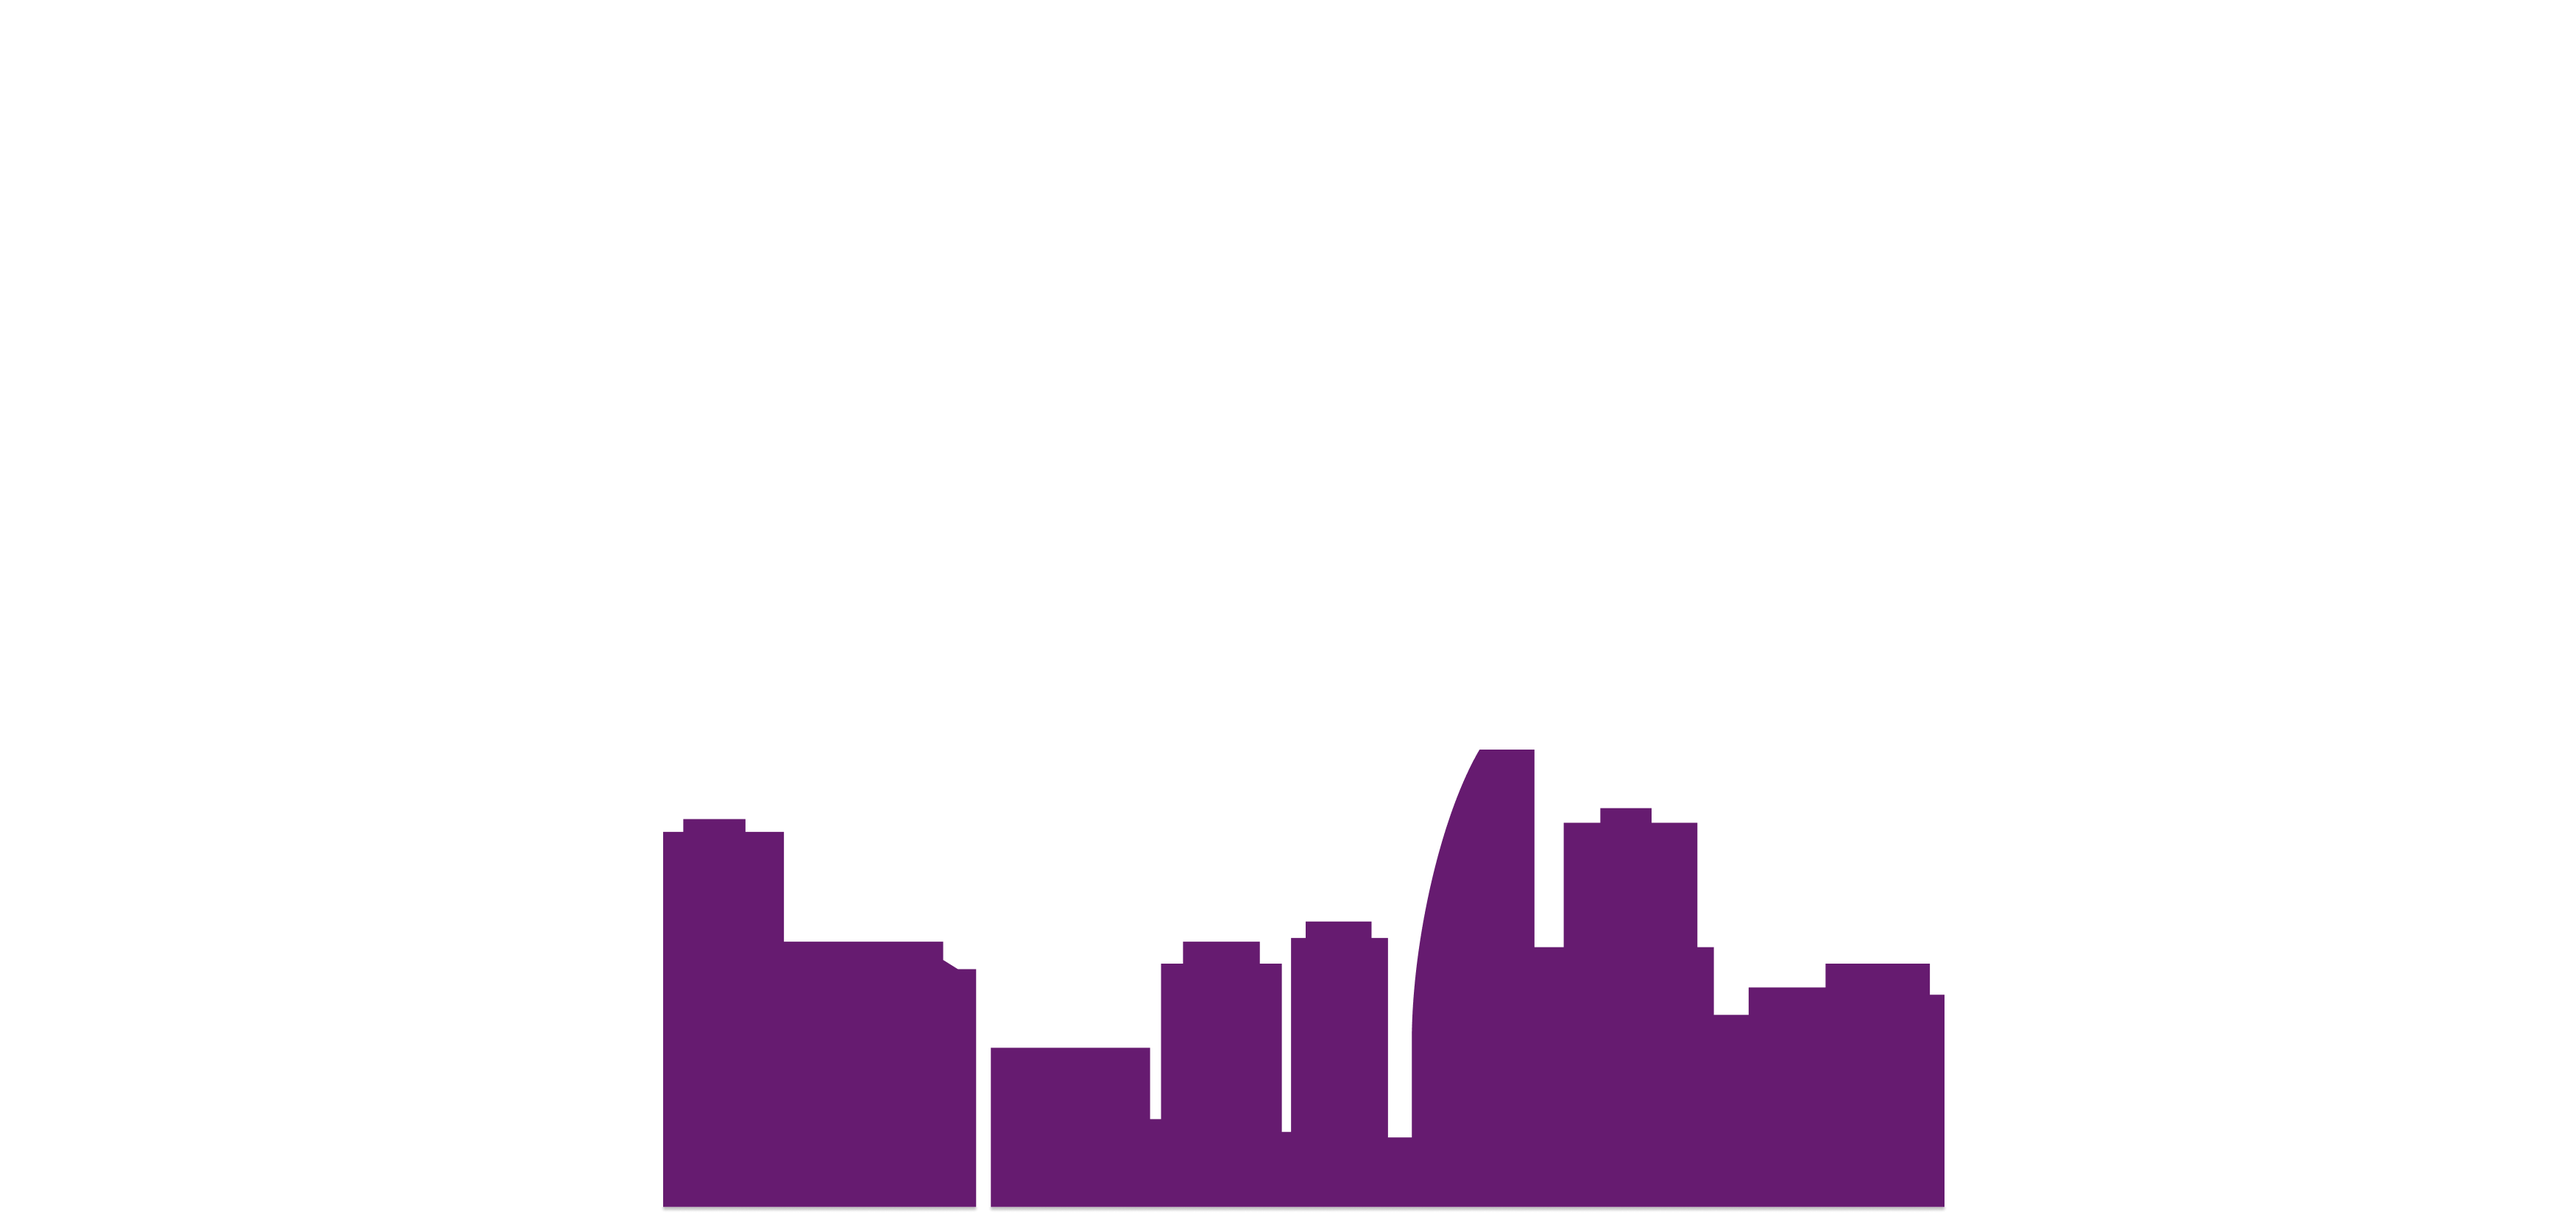
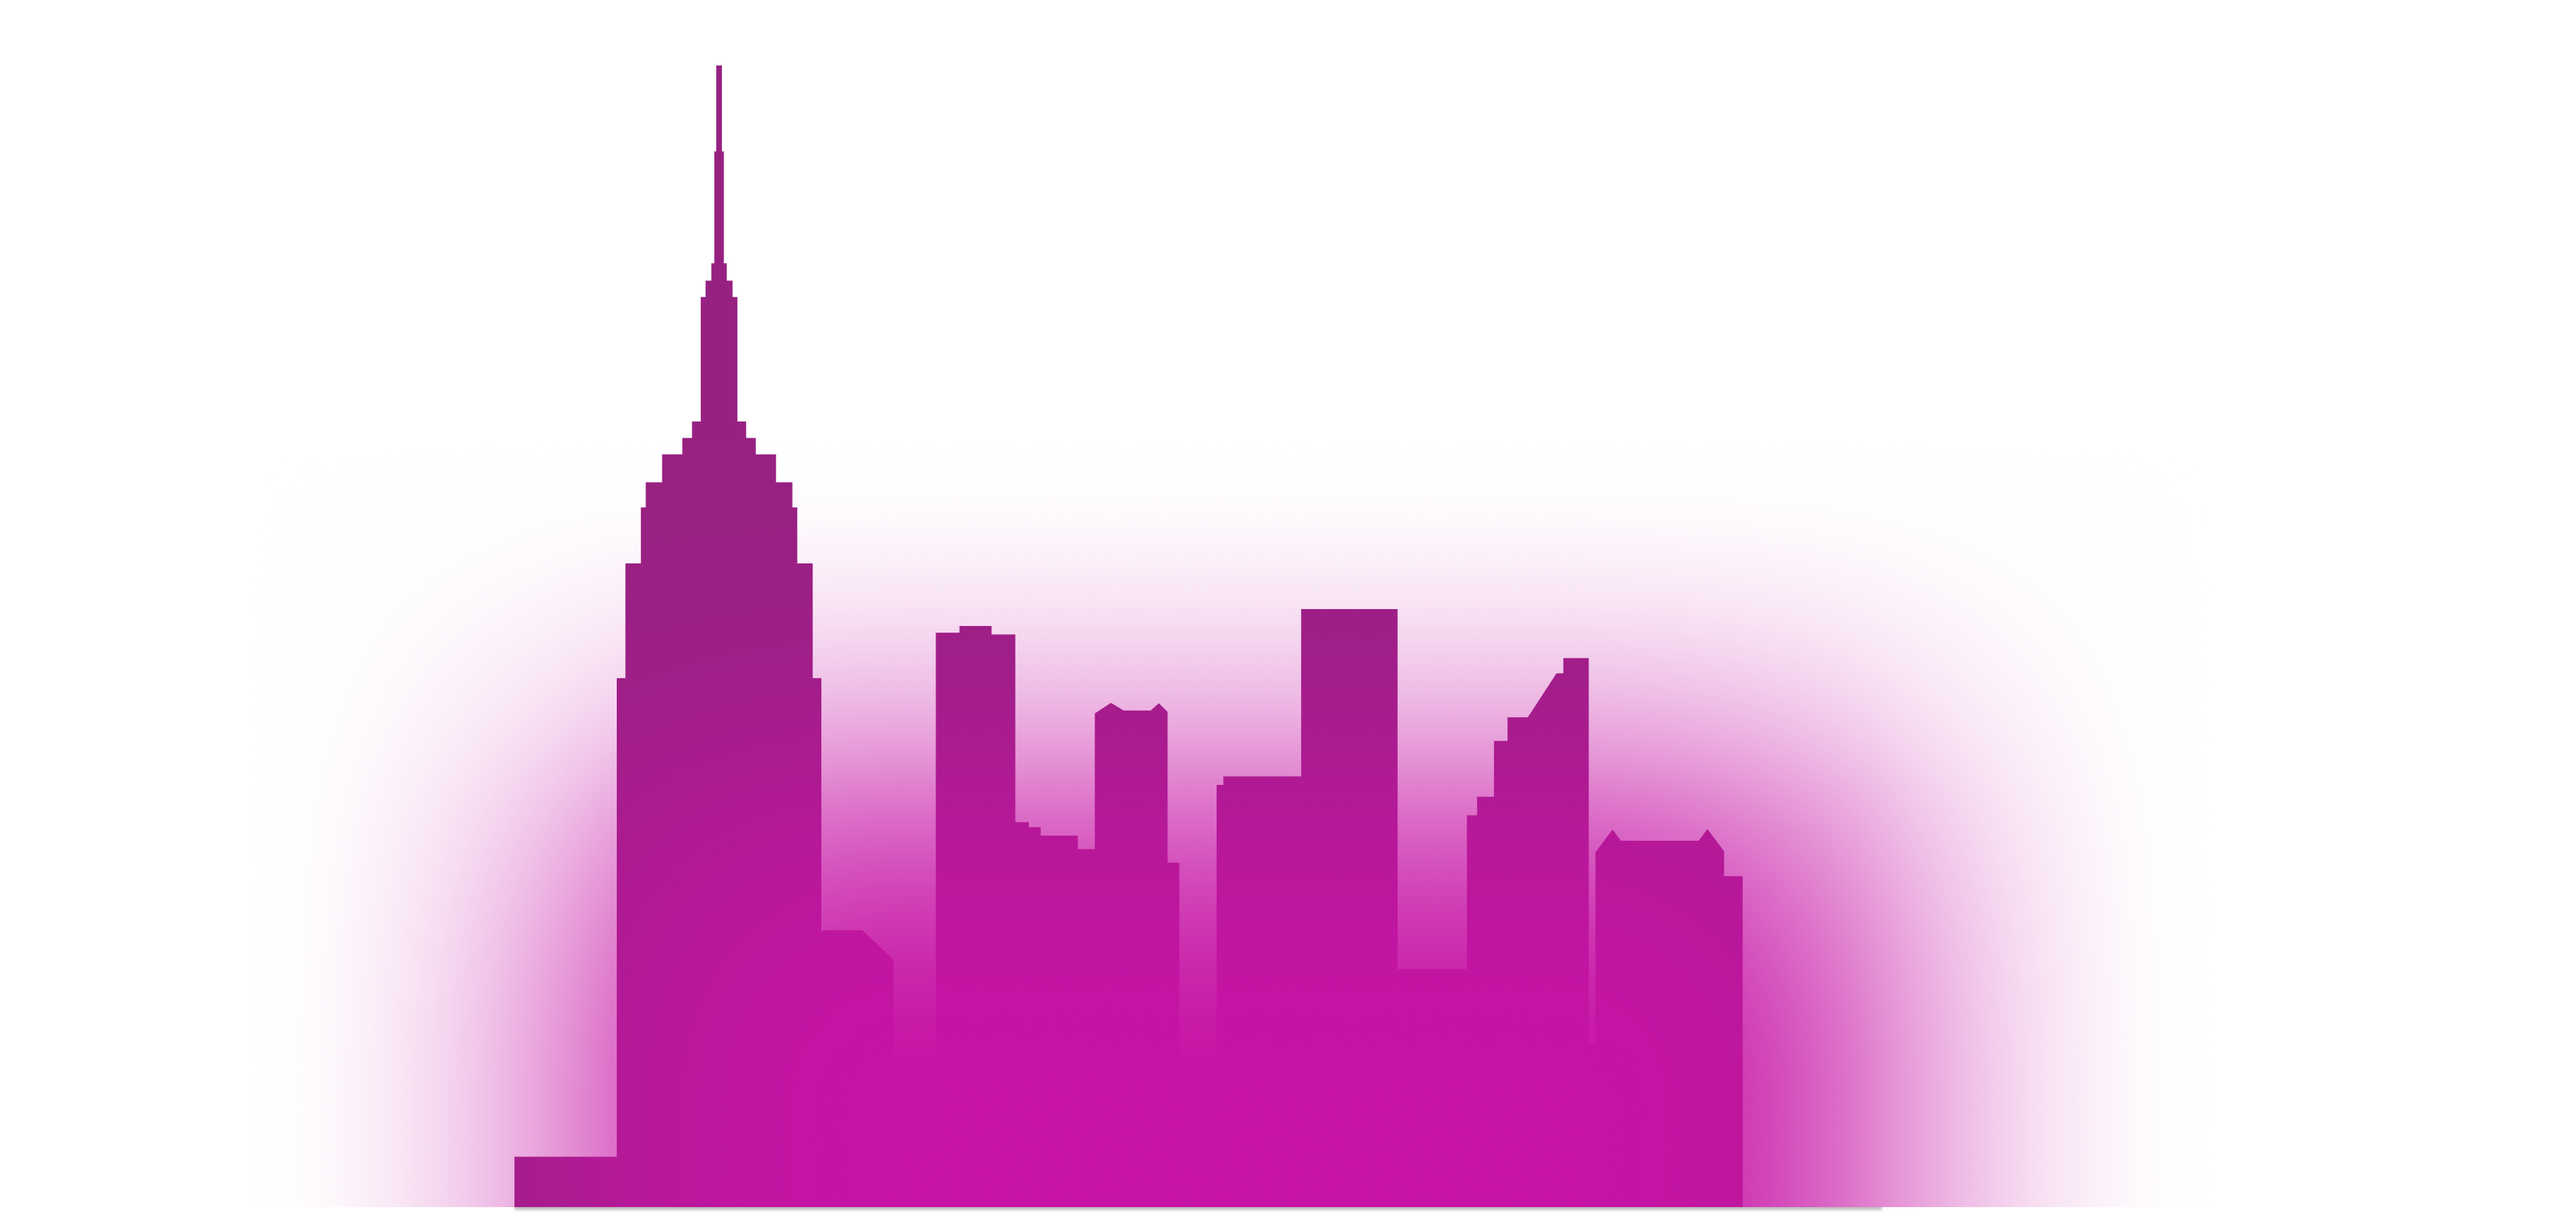
added parallax to repository

diff --git a/EZ-Parallax-master/banner.html b/EZ-Parallax-master/banner.html
@@ -6,7 +6,80 @@
 	<meta name="viewport" content="width=device-width, initial-scale=1">
 	<link rel="stylesheet" href="style.css" />
 	<link rel="stylesheet" href="parallax.css" />
-	<title>EZ | Banner</title>
+	<link href="https://fonts.googleapis.com/css2?family=Montserrat:wght@400;500;600&display=swap" rel="stylesheet">
+	<link href="https://cdn.jsdelivr.net/npm/bootstrap@5.3.3/dist/css/bootstrap.min.css" rel="stylesheet"
+		integrity="sha384-QWTKZyjpPEjISv5WaRU9OFeRpok6YctnYmDr5pNlyT2bRjXh0JMhjY6hW+ALEwIH" crossorigin="anonymous">
+	<title>New York</title>
+	<style>
+		body {
+			color: white;
+			font-family: "Montserrat", sans-serif;
+			margin: 0;
+			padding: 0;
+		}
+
+		/* Banner Section Styling */
+		.bnnrCntnt {
+			background: url(https://marriott.cdn.tambourine.com/destinations-promo/media/nyc_lp_q3c2_intro_bkgrnd_092124-66fee4f27d41f.jpg) no-repeat center center;
+			background-size: cover;
+			color: white;
+			padding: 100px 0;
+			max-width: 100%;
+			/* Prevent overflow */
+		}
+
+		.bnnrCntnt h1 {
+			font-size: 3.7rem;
+			/* Adjusted for larger screens */
+			text-shadow: 2px 2px 8px rgba(0, 0, 0, 0.6);
+		}
+
+		.bnnrCntnt p {
+			font-size: 1.9rem;
+			/* Slightly smaller font for readability */
+			text-shadow: 1px 1px 6px rgba(0, 0, 0, 0.4);
+		}
+
+		/* Flexbox layout for banner content */
+		.bnnrCntnt .row {
+			display: flex;
+			justify-content: center;
+			align-items: center;
+			text-align: center;
+		}
+
+		.bnnrCntnt img {
+			max-width: 100%;
+			height: auto;
+		}
+
+		html,
+		body {
+			overflow-x: hidden;
+			/* Hide horizontal scrollbar */
+			width: 100%;
+			/* Ensure body and html take up full viewport width */
+			margin: 0;
+			padding: 0;
+		}
+
+		.container-fluid {
+			max-width: 100%;
+			/* Prevent overflow from container */
+			padding-left: 0;
+			padding-right: 0;
+		}
+
+		.container-fluid h1 {
+			font-size: 3.8rem;
+			/* Smaller heading for mobile */
+		}
+
+		.container-fluid p {
+			font-size: 1.4rem;
+			/* Smaller paragraph for mobile */
+		}
+	</style>
 </head>
 
 <body>
@@ -14,23 +87,157 @@
 		<div class="keyart" id="parallax">
 			<div class="keyart_layer parallax" id="keyart-0" data-speed="4"></div>
 			<div class="keyart_layer parallax" id="keyart-1" data-speed="16"></div>
-			<div class="keyart_layer parallax" id="keyart-2" data-speed="30"></div>
-			<div class="keyart_layer parallax" id="keyart-3" data-speed="66"></div>
-			<div class="keyart_layer parallax" id="keyart-4" data-speed="100"></div>
+			<div class="keyart_layer parallax" id="keyart-2" data-speed="20"></div>
+			<div class="keyart_layer parallax" id="keyart-3" data-speed="30"></div>
+			<div class="keyart_layer parallax" id="keyart-4" data-speed="66"></div>
+			<div class="keyart_layer parallax" id="keyart-5" data-speed="100"></div>
 		</div>
 	</section>
 
 	<section class="main-content">
-		<div class="container-fluid" style="background-color: white;">
+		<div class="bnnrCntnt container-fluid">
 			<div class="row">
-				<div class="col" style="height: 2000px;">
-					test
+				<!-- Image Column -->
+				<div class="col-md-6 d-flex align-items-center justify-content-center py-4">
+					<img src="contentimgs/banner.png" alt="New York Adventure" style="width: 65%;">
+				</div>
+
+				<!-- Text Column -->
+				<div class="col-md-6 d-flex flex-column justify-content-center text-center">
+					<h1 class="bannerTxt text-white">Discover Your Adventure in New York</h1>
+					<p class="bannerTxt text-white mx-5">From the hustle and bustle of iconic streets to serene winter
+						escapes, New York offers an unforgettable experience in every season. Whether you're exploring
+						world-class museums or taking in the city’s dazzling holiday lights, New York is where memories
+						are made. Join us this fall and winter to see why the city is a dream destination year-round.
+					</p>
 				</div>
 			</div>
 		</div>
+
+		<!-- Additional Content Sections -->
+		<div class="container-fluid" style="background-color: #fff5e4;">
+			<div class="row d-flex align-items-center justify-content-center py-4">
+				<h1 class="text-center py-2" style="color: black;">Central Park: A Winter Wonderland</h1>
+				<img src="contentimgs/cntntimg1.jpg" alt="" style="width: 50%;">
+				<div class="col-8 mt-4">
+					<p class="text-center" style="color: black;">Experience the magical transformation of Central Park
+						in winter. From ice skating at Wollman Rink to taking in the breathtaking views of snow-covered
+						trees, this iconic park is the perfect place for winter activities and moments of tranquility.
+						Explore seasonal events and cozy cafes, and enjoy a winter wonderland in the heart of New York
+						City.</p>
+				</div>
+			</div>
+		</div>
+
+		<div class="container-fluid" style="background-color: #3E1855">
+			<div class="row d-flex align-items-center justify-content-center py-4">
+				<h1 class="text-center py-2" style="color: #fff5e4;">Times Square: The Heart of the City</h1>
+				<img src="contentimgs/cntntimg2.jpg" alt="" style="width: 50%;">
+
+				<div class="col-8 mt-4">
+					<p class="text-center" style="color: #fff5e4;">Times Square is a symbol of New York’s energy and
+						vibrancy.
+						No matter the season, this bustling intersection never sleeps. Whether you're catching a
+						Broadway
+						show, marveling at the flashing billboards, or celebrating the new year with thousands of
+						others,
+						Times Square is a must-see destination for anyone visiting the city.</p>
+				</div>
+			</div>
+		</div>
+
+		<div class="container-fluid" style="background-color: #fff5e4;">
+			<div class="row d-flex align-items-center justify-content-center py-4">
+				<h1 class="text-center py-2" style="color: black;">Explore NoMad and Greenwich Village</h1>
+				<img src="contentimgs/cntntimg3.jpg" alt="" style="width: 50%;">
+
+				<div class="col-8 mt-4">
+					<p class="text-center" style="color: black;">From the sleek hotels of NoMad to the artistic charm of
+						Greenwich Village, these neighborhoods offer a unique blend of history, art, and modern living.
+						Wander through cobblestone streets adorned with festive lights, enjoy rooftop cocktails, and
+						explore
+						the hidden gems of the city’s cultural districts.</p>
+				</div>
+			</div>
+		</div>
+
+		<div class="container-fluid" style="background-color: #3E1855">
+			<div class="row d-flex align-items-center justify-content-center py-4">
+				<h1 class="text-center py-2" style="color: #fff5e4;">Lower Manhattan & Financial District</h1>
+				<img src="contentimgs/cntntimg4.jpg" alt="" style="width: 50%;">
+
+				<div class="col-8 mt-4">
+					<p class="text-center" style="color: #fff5e4;">Lower Manhattan combines the old and the new, from the
+						historic streets of the Financial District to the modern skyscrapers that make up the city's
+						skyline. Visit the 9/11 Memorial, enjoy panoramic views from One World Observatory, or stroll
+						along
+						the scenic waterfront for a peaceful moment amidst the city's vibrant energy.</p>
+				</div>
+			</div>
+		</div>
+
+		<div class="container-fluid" style="background-color: #fff5e4;">
+			<div class="row d-flex align-items-center justify-content-center py-4">
+				<h1 class="text-center py-2" style="color: black;">Brooklyn: Culture and Charm</h1>
+				<img src="contentimgs/cntntimg5.jpg" alt="" style="width: 50%;">
+
+				<div class="col-8 mt-4">
+					<p class="text-center" style="color: black;">Brooklyn is where creativity thrives. From the Brooklyn
+						Bridge to vibrant neighborhoods like Williamsburg, Brooklyn is a cultural hub full of art,
+						music,
+						and food. Discover the charm of historic brownstones, cozy coffee shops, and vibrant street art.
+						Whether it’s winter markets or jazz clubs, Brooklyn offers something unique at every corner.</p>
+				</div>
+			</div>
+		</div>
+
+		<div class="container-fluid" style="background-color: #3E1855">
+			<div class="row d-flex align-items-center justify-content-center py-4">
+				<h1 class="text-center py-2" style="color: #fff5e4;">Hudson River Waterfront: A Peaceful Getaway</h1>
+				<img src="contentimgs/cntntimg6.jpg" alt="" style="width: 50%;">
+
+				<div class="col-8 mt-4">
+					<p class="text-center" style="color: #fff5e4;">Escape the hustle and bustle of the city with a visit
+						to
+						the scenic Hudson River Waterfront. Explore charming towns like Hoboken, with their holiday
+						lights
+						and festive markets, or take a leisurely bike ride along the waterfront. For a memorable
+						experience,
+						take a ferry to Ellis Island and explore New York's rich history.</p>
+				</div>
+			</div>
+		</div>
+
+		<div class="container-fluid" style="background-color: #fff5e4;">
+			<div class="row d-flex align-items-center justify-content-center py-4">
+				<h1 class="text-center py-2" style="color: black;">Upper East Side: Luxury and Culture</h1>
+				<img src="contentimgs/cntntimg7.jpg" alt="" style="width: 50%;">
+
+				<div class="col-8 mt-4">
+					<p class="text-center" style="color: black;">The Upper East Side is known for its upscale living,
+						world-class museums, and stunning architecture. Take a leisurely walk through Central Park,
+						explore
+						the Metropolitan Museum of Art, or shop along Madison Avenue. This elegant neighborhood offers a
+						refined experience that is perfect for those looking to immerse themselves in the city’s rich
+						culture.</p>
+				</div>
+			</div>
+		</div>
+
+		<footer class="footCont">
+			<div class="container-fluid py-2 d-flex align-items-center justify-content-center"
+				style="color: #fff5e4; height: 130px; background-color: #3E1855;">
+				<p class="footText text-center">Copyright © 2024 Marriott International, Inc. All Rights Reserved.
+					Marriott Proprietary Information.</p>
+			</div>
+		</footer>
+
 	</section>
 
-	<!--Uses JQuery-->
+	<!-- Scripts -->
+	<script src="https://cdn.jsdelivr.net/npm/bootstrap@5.3.3/dist/js/bootstrap.bundle.min.js"
+		integrity="sha384-YvpcrYf0tY3lHB60NNkmXc5s9fDVZLESaAA55NDzOxhy9GkcIdslK1eN7N6jIeHz"
+		crossorigin="anonymous"></script>
 	<script src="https://ajax.googleapis.com/ajax/libs/jquery/2.1.3/jquery.min.js"></script>
 	<script type="text/javascript" src="js/parallax.js"></script>
 

diff --git a/EZ-Parallax-master/parallax.css b/EZ-Parallax-master/parallax.css
@@ -55,7 +55,7 @@
 }
 
 #keyart-5 {
-	background-image: url(img/parallax5.png);
+	background-image: url(img/myparallax5.png);
 }
 
 #keyart-6 {
